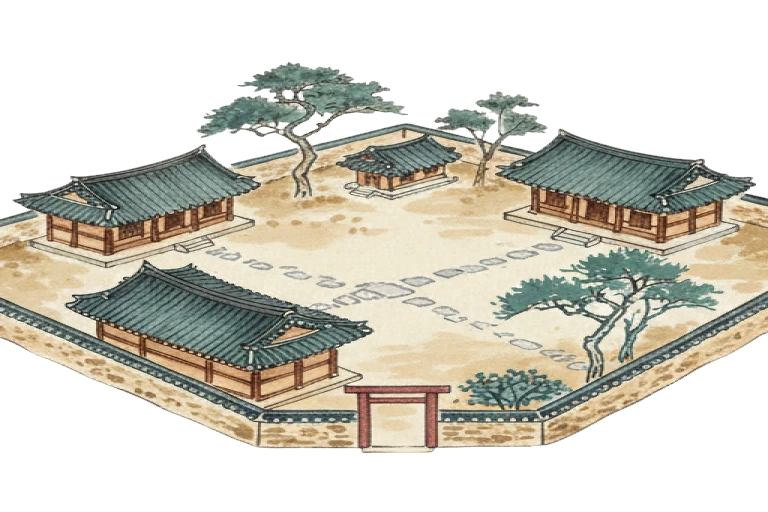
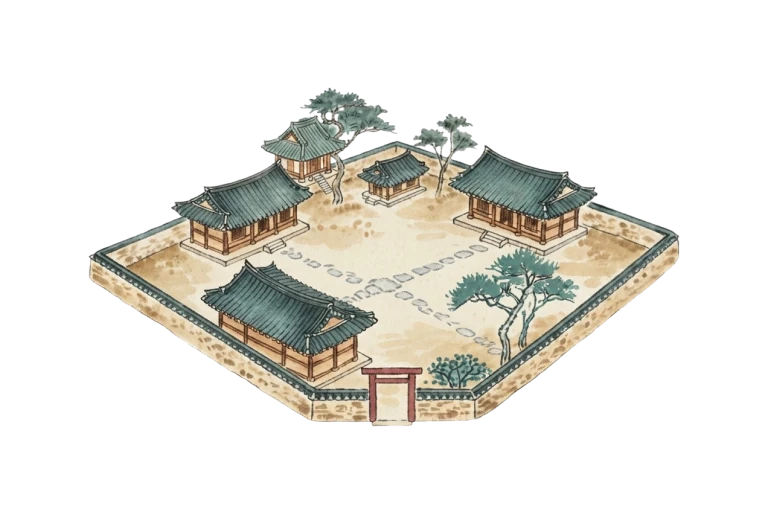
새 조감도 — 예경당이 선 그림으로 갈아 끼우고 일곱 자리를 다시 잰다
전각이 하나 더 그려진 조감도가 왔다. 그림이 작아지고 가운데로 들어와 자리가
전부 옮겨졌으므로 일곱의 자리와 크기를 다시 쟀다 — 지붕의 청록을 덩어리로
묶어 가운데와 크기를 뽑고, 그 네모를 그림 위에 그려 눈으로 맞췄다. 겹치는
자리가 없게 서로 맞닿는 선까지만 넓혔다.

무게는 오히려 줄었다: 95,066 → 54,570 바이트(합계 954,418 → 913,922).
투명을 살려 눌렀다 — 한 번 RGB 로 눌렀다가 「조감도에 투명이 없다」가 울어
다시 했다. 원본 PNG 는 docs/sources 로.

diff --git a/app/models/compound.rb b/app/models/compound.rb
@@ -23,14 +23,15 @@ class Compound
   end
 
   HALLS = [
-    Hall.new(key: :sitting, cx: 17.6, cy: 39.1, w: 26.0, h: 23.4, han: "禪房"),    # 선방 — 앉기
-    Hall.new(key: :maitreya, cx: 52.1, cy: 33.2, w: 14.3, h: 15.6, han: "彌勒堂", scripture: false), # 미륵당 — 날들
-    Hall.new(key: :copying, cx: 80.7, cy: 38.1, w: 28.6, h: 23.4, han: "寫經室"),  # 사경실 — 사경
-    Hall.new(key: :lecture, cx: 28.0, cy: 62.5, w: 32.6, h: 25.4, han: "講院"),    # 강원 — 쉼의 안내
-    Hall.new(key: :courtyard, cx: 52.1, cy: 55.7, w: 28.6, h: 21.5, han: nil, scripture: false),     # 마당 — 아래로, 비움 선언
-    # 예경당의 한 줄은 경의 말이 아니라 우리가 지은 뜻풀이다 — 출전을 달지 않는다.
-    Hall.new(key: :bowing, cx: 78.5, cy: 62.5, w: 24.0, h: 23.4, han: "禮敬堂", scripture: false), # 예경당 — 절
-    Hall.new(key: :gate, cx: 51.4, cy: 79.1, w: 13.0, h: 15.6, han: "門")          # 문 — 처음의 문 다시
+    # 자리와 크기는 조감도(compound.webp, 768×512)에서 잰 백분율이다. 그림이 바뀌면
+    # 여기만 고친다 — 2026-10-07 에 예경당이 선 새 조감도로 갈아 끼우며 일곱을 다시 쟀다.
+    Hall.new(key: :bowing, cx: 39.5, cy: 29.5, w: 12.0, h: 12.0, han: "禮敬堂", scripture: false), # 예경당 — 절
+    Hall.new(key: :maitreya, cx: 51.0, cy: 34.5, w: 9.5, h: 10.0, han: "彌勒堂", scripture: false), # 미륵당 — 날들
+    Hall.new(key: :copying, cx: 68.0, cy: 36.5, w: 19.0, h: 14.0, han: "寫經室"),  # 사경실 — 사경
+    Hall.new(key: :sitting, cx: 35.0, cy: 43.0, w: 23.0, h: 15.0, han: "禪房"),    # 선방 — 앉기
+    Hall.new(key: :courtyard, cx: 57.0, cy: 50.0, w: 20.0, h: 14.0, han: nil, scripture: false),   # 마당 — 아래로, 비움 선언
+    Hall.new(key: :lecture, cx: 37.5, cy: 60.5, w: 20.0, h: 17.5, han: "講院"),    # 강원 — 쉼의 안내
+    Hall.new(key: :gate, cx: 51.8, cy: 75.5, w: 8.0, h: 12.5, han: "門")           # 문 — 처음의 문 다시
   ].freeze
 
   # 카드를 열고 드는 흐름이 있는 전각. 마당은 스스로를 가리키므로 카드가 없다 —

diff --git a/test/locks/promise/verse_promise_test.rb b/test/locks/promise/verse_promise_test.rb
@@ -61,7 +61,7 @@ class VersePromiseTest < ActionDispatch::IntegrationTest
     # 먹으로 서는 둘 — 미륵당의 한 줄은 우리가 지은 말이고 출전은 장소다.
     # 예경당의 한 줄은 보현행원품의 뜻을 우리 말로 옮긴 것이라 출전을 달지 않는다.
     # 역경원 번역본의 문장을 대조해 올리면 그때 경구가 된다(Citation).
-    assert_equal [ :maitreya, :bowing ], Compound::CARD_HALLS.reject(&:scripture).map(&:key)
+    assert_equal [ :maitreya, :bowing ].sort, Compound::CARD_HALLS.reject(&:scripture).map(&:key).sort
   end
 
   test "문의 경 한 줄은 출전과 함께 선다" do
